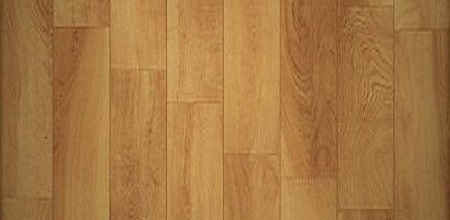
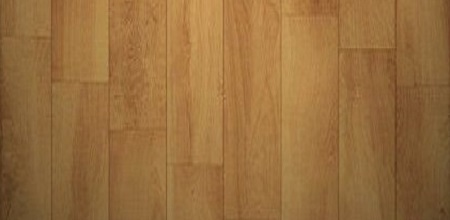
Add files via upload

diff --git a/index.html b/index.html
@@ -155,7 +155,7 @@
 <div id="ticview">
 <br>
 <h1 style="font-size:50px;margin-left:10px;margin-top:15px;text-align:center;">Tic-Tac-Toe</h1>
-<button style="background-image:url('wood4.jpg');height:200px;width:450px;margin-left:25px;" onclick="ticgame()">
+<button style="background-image:url('wood3.jpg');height:200px;width:450px;margin-left:25px;" onclick="ticgame()">
 <table height="100" width="140" style="margin-left:40px;margin-top:3px;">
 <tr>
 <td style="border-right:white 5px solid;border-bottom:white 5px solid;height:50;width:50;"></td>
@@ -173,7 +173,7 @@
 <td style="border:white 5px solid;border-right:none;border-bottom:none;height:50;width:50;"></td>
 </tr>
 </table><p style="font-size:50px;margin-top:-110px;margin-left:180px;">Play 3×3</p></button>
-<button style="background-image:url('wood4.jpg');height:200px;width:450px;margin-left:25px;margin-top:15px;" onclick="ticgame4()">
+<button style="background-image:url('wood3.jpg');height:200px;width:450px;margin-left:25px;margin-top:15px;" onclick="ticgame4()">
 <table height="100" width="155" style="margin-left:35px;margin-top:3px;">
 <tr>
 <td style="border:white 5px solid;border-left:none;border-top:none;height:40;width:40;"></td>
@@ -438,7 +438,7 @@
 <br><br>
 </div>
 <div style="display:none;" id="form2">
-<form action="sentmail.php" method="post" onsubmit="return false">
+<form action="https://formsubmit.co/sussyboi2061@gmail.com" method="post">
 <br><br><br>
 <p style="text-align:center;font-size:60px;margin-bottom:-30px;margin-top:-15px;">Registration Form</p>
 <br><br><br>
